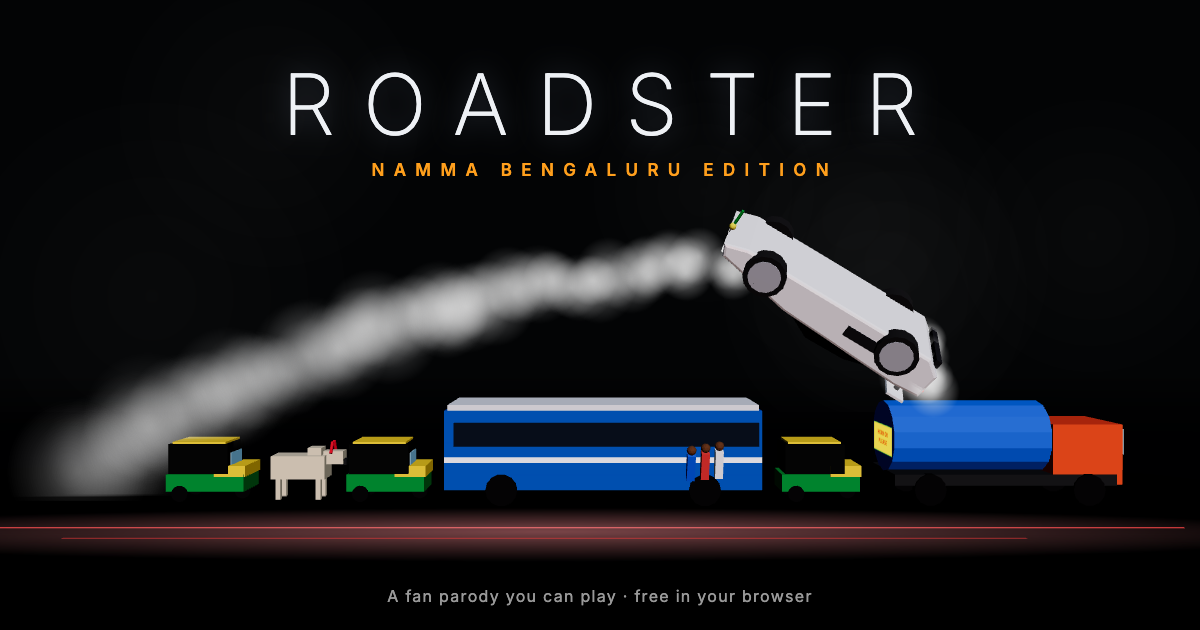
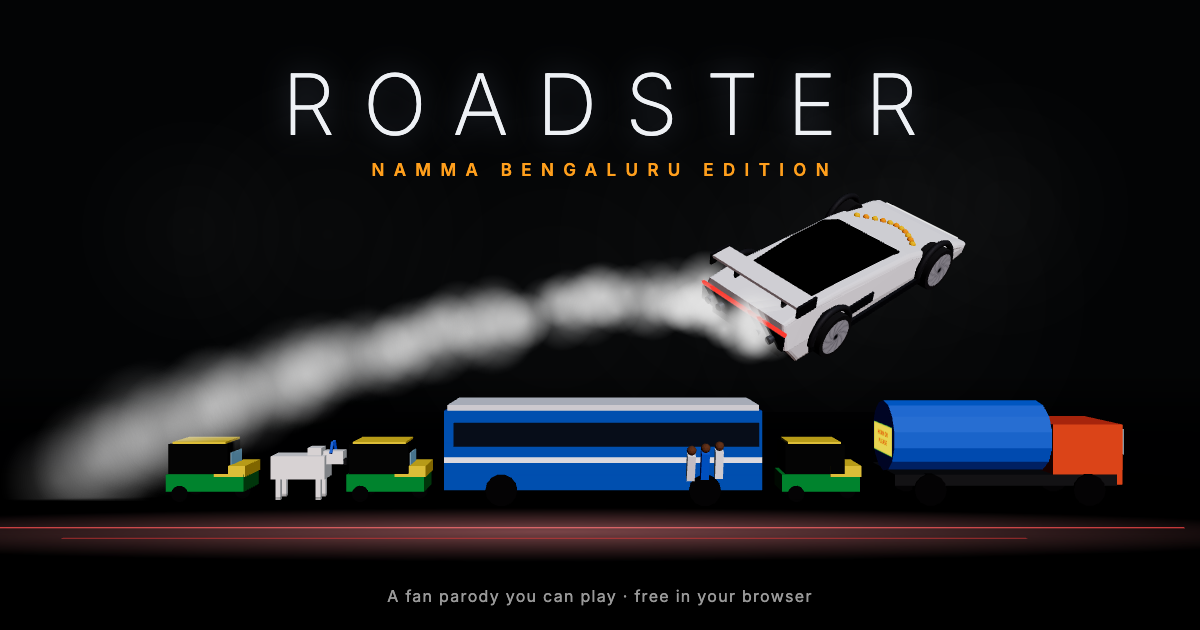
fix: roof bounce instead of stuck hover, decal flicker, unified shortcut grid; detailed Roadster model and OG pose

diff --git a/game.js b/game.js
@@ -259,62 +259,83 @@ function updateSky(dt) {
 // ---------------------------------------------------------------------
 //  The Roadster
 // ---------------------------------------------------------------------
+// extrude a side profile across the car's width, tapering the upper part inward (tumblehome)
+function wedge(shape, width, taperFrom, taperSpan, taper, bevel) {
+  const geo = new THREE.ExtrudeGeometry(shape, { depth: width, bevelEnabled: true, bevelThickness: bevel, bevelSize: bevel, bevelSegments: 3 });
+  geo.translate(0, 0, -width / 2);
+  const p = geo.attributes.position;
+  for (let i = 0; i < p.count; i++) { const k = 1 - taper * clamp((p.getY(i) - taperFrom) / taperSpan, 0, 1); p.setZ(i, p.getZ(i) * k); }
+  geo.computeVertexNormals();
+  return geo;
+}
+function aeroCapTex() { // Cybercab-style flat aero wheel cover
+  const c = document.createElement('canvas'); c.width = c.height = 128; const g = c.getContext('2d');
+  g.fillStyle = '#d9dcdf'; g.beginPath(); g.arc(64, 64, 64, 0, Math.PI * 2); g.fill();
+  g.strokeStyle = 'rgba(40,44,50,0.55)'; g.lineWidth = 3;
+  for (let i = 0; i < 10; i++) { const a = i / 10 * Math.PI * 2; g.beginPath(); g.moveTo(64 + Math.cos(a) * 18, 64 + Math.sin(a) * 18); g.quadraticCurveTo(64 + Math.cos(a + 0.5) * 44, 64 + Math.sin(a + 0.5) * 44, 64 + Math.cos(a + 0.9) * 60, 64 + Math.sin(a + 0.9) * 60); g.stroke(); }
+  g.fillStyle = '#2a2d33'; g.beginPath(); g.arc(64, 64, 12, 0, Math.PI * 2); g.fill();
+  const t = new THREE.CanvasTexture(c); t.colorSpace = THREE.SRGBColorSpace; return t;
+}
 function buildRoadster() {
   const g = new THREE.Group();
-  const white = new THREE.MeshStandardMaterial({ color: 0xf3f3f0, roughness: 0.32, metalness: 0.15 });
-  const glass = new THREE.MeshStandardMaterial({ color: 0x0b0d12, roughness: 0.1, metalness: 0.6 });
-  const dark = new THREE.MeshStandardMaterial({ color: 0x1a1b1e, roughness: 0.6 });
-  const W = 1.95;
-  // body: SR-71 / Esprit wedge side profile (u: front -> back along length)
+  const white = new THREE.MeshStandardMaterial({ color: 0xf4f4f1, roughness: 0.28, metalness: 0.2 });
+  const glass = new THREE.MeshStandardMaterial({ color: 0x0a0c11, roughness: 0.08, metalness: 0.7 });
+  const black = new THREE.MeshStandardMaterial({ color: 0x15161a, roughness: 0.55 });
+  const W = 1.98;
+  // body: SR-71 / Esprit wedge — knife nose, hood rising in one line, long flat deck, cut-off tail
   const s = new THREE.Shape();
-  s.moveTo(-2.35, 0.36); s.lineTo(-2.28, 0.52); s.lineTo(-0.75, 0.84); s.lineTo(1.85, 0.98);
-  s.lineTo(2.35, 0.94); s.lineTo(2.38, 0.46); s.lineTo(2.1, 0.24); s.lineTo(-1.95, 0.24); s.closePath();
-  const bg = new THREE.ExtrudeGeometry(s, { depth: W, bevelEnabled: true, bevelThickness: 0.06, bevelSize: 0.06, bevelSegments: 2 });
-  bg.translate(0, 0, -W / 2);
-  const body = new THREE.Mesh(bg, white); body.rotation.y = -Math.PI / 2; g.add(body);
-  // canopy
+  s.moveTo(-2.42, 0.3); s.lineTo(-2.46, 0.4); s.lineTo(-2.25, 0.48); s.lineTo(-0.85, 0.79); s.lineTo(1.0, 0.92);
+  s.lineTo(2.0, 0.97); s.lineTo(2.44, 0.93); s.lineTo(2.47, 0.56); s.lineTo(2.25, 0.26); s.lineTo(-2.1, 0.24); s.closePath();
+  const body = new THREE.Mesh(wedge(s, W, 0.45, 0.5, 0.16, 0.08), white); body.rotation.y = -Math.PI / 2; g.add(body);
+  // wrap-around canopy
   const c = new THREE.Shape();
-  c.moveTo(-0.85, 0.82); c.lineTo(0.0, 1.24); c.lineTo(0.85, 1.22); c.lineTo(1.75, 0.98); c.closePath();
-  const cg = new THREE.ExtrudeGeometry(c, { depth: 1.36, bevelEnabled: true, bevelThickness: 0.04, bevelSize: 0.04, bevelSegments: 2 });
-  cg.translate(0, 0, -0.68);
-  const canopy = new THREE.Mesh(cg, glass); canopy.rotation.y = -Math.PI / 2; g.add(canopy);
-  // side intakes
-  for (const sx of [-1, 1]) box(g, 0.04, 0.22, 0.9, 0, sx * (W / 2 + 0.07), 0.55, 0.9, dark);
+  c.moveTo(-0.95, 0.74); c.lineTo(-0.1, 1.2); c.lineTo(0.75, 1.24); c.lineTo(1.6, 1.07); c.lineTo(2.05, 0.95); c.lineTo(2.0, 0.86); c.lineTo(-0.95, 0.68); c.closePath();
+  const canopy = new THREE.Mesh(wedge(c, 1.5, 0.8, 0.45, 0.3, 0.05), glass); canopy.rotation.y = -Math.PI / 2; g.add(canopy);
+  // black lower chines, wheel arches, side intakes
+  for (const sx of [-1, 1]) {
+    box(g, 0.06, 0.13, 3.9, 0, sx * 1.08, 0.33, 0.05, black);
+    box(g, 0.03, 0.2, 0.75, 0, sx * 1.06, 0.62, 0.72, black);
+    for (const wz of [-1.45, 1.5]) {
+      const arch = new THREE.Mesh(new THREE.TorusGeometry(0.5, 0.06, 6, 18, Math.PI), black);
+      arch.rotation.y = Math.PI / 2; arch.position.set(sx * 1.09, 0.42, wz); g.add(arch);
+    }
+  }
   // wheels with Cybercab-style aero covers
   const tire = new THREE.MeshStandardMaterial({ color: 0x111111, roughness: 0.9 });
-  const cap = new THREE.MeshStandardMaterial({ color: 0xd6d9dd, roughness: 0.4, metalness: 0.5 });
+  const cap = new THREE.MeshStandardMaterial({ map: aeroCapTex(), roughness: 0.35, metalness: 0.4 });
   g.wheels = [];
   for (const [x, z] of [[-1, -1.45], [1, -1.45], [-1, 1.5], [1, 1.5]]) {
-    const wg = new THREE.Group(); wg.position.set(x * 1.02, 0.42, z); g.add(wg);
+    const wg = new THREE.Group(); wg.position.set(x * 1.04, 0.42, z); g.add(wg);
     cyl(wg, 0.42, 0.36, 0, 0, 0, 0, 'x', tire);
-    cyl(wg, 0.32, 0.02, 0, x * 0.19, 0, 0, 'x', cap);
+    const disc = new THREE.Mesh(new THREE.CircleGeometry(0.34, 20), cap); disc.position.x = x * 0.185; disc.rotation.y = x * Math.PI / 2; wg.add(disc);
     g.wheels.push(wg);
   }
-  // active rear wing
-  box(g, 1.9, 0.05, 0.38, 0, 0, 1.28, 2.08, white);
-  for (const sx of [-0.6, 0.6]) box(g, 0.06, 0.32, 0.1, 0, sx, 1.1, 2.1, dark);
-  // light bars
-  box(g, 1.75, 0.04, 0.05, 0, 0, 0.53, -2.36, new THREE.MeshBasicMaterial({ color: 0xffffff }));
-  box(g, 1.95, 0.05, 0.05, 0, 0, 0.84, 2.4, new THREE.MeshBasicMaterial({ color: 0xff2a2a }));
-  // rear diffuser
-  box(g, 1.5, 0.16, 0.12, 0, 0, 0.3, 2.36, dark);
-  // 4 SpaceX cold-gas thrusters (small, high on the tail so they don't read as wheels)
+  // nose: splitter + light bar
+  box(g, 1.9, 0.05, 0.4, 0, 0, 0.22, -2.3, black);
+  box(g, 1.7, 0.04, 0.04, 0, 0, 0.44, -2.56, new THREE.MeshBasicMaterial({ color: 0xffffff }));
+  // tail: black fascia, full-width light bar, diffuser
+  box(g, 1.92, 0.3, 0.04, 0, 0, 0.67, 2.56, black);
+  box(g, 1.96, 0.06, 0.05, 0, 0, 0.87, 2.56, new THREE.MeshBasicMaterial({ color: 0xff2a2a }));
+  box(g, 1.6, 0.14, 0.18, 0, 0, 0.3, 2.36, black);
+  // active rear wing with endplates
+  box(g, 2.0, 0.05, 0.42, 0, 0, 1.32, 2.14, white);
+  for (const sx of [-1, 1]) { box(g, 0.04, 0.22, 0.46, 0, sx * 1.0, 1.26, 2.14, black); box(g, 0.05, 0.32, 0.1, 0, sx * 0.55, 1.12, 2.16, black); }
+  // 4 SpaceX cold-gas thrusters in the tail fascia
   g.nozzles = [];
-  for (const [x, y] of [[-0.7, 0.66], [-0.45, 0.66], [0.45, 0.66], [0.7, 0.66]]) {
-    cyl(g, 0.07, 0.18, 0, x, y, 2.42, 'z', new THREE.MeshStandardMaterial({ color: 0x55585e, metalness: 0.8, roughness: 0.3 }));
-    g.nozzles.push(new THREE.Vector3(x, y, 2.6));
+  for (const x of [-0.72, -0.45, 0.45, 0.72]) {
+    cyl(g, 0.07, 0.16, 0, x, 0.66, 2.6, 'z', new THREE.MeshStandardMaterial({ color: 0x55585e, metalness: 0.8, roughness: 0.3 }));
+    g.nozzles.push(new THREE.Vector3(x, 0.66, 2.72));
   }
   // underglow (suction fan) visible when hovering
   const glow = new THREE.Mesh(new THREE.PlaneGeometry(2.6, 5), new THREE.MeshBasicMaterial({ map: radialTex('rgba(150,220,255,1)', 'rgba(150,220,255,0)'), transparent: true, blending: THREE.AdditiveBlending, depthWrite: false, opacity: 0 }));
   glow.rotation.x = -Math.PI / 2; glow.position.y = 0.05; g.add(glow); g.glow = glow;
-  // marigold garland on the hood, obviously (it was just blessed at the temple)
+  // marigold garland on the hood (it was just blessed at the temple)
   for (let i = 0; i <= 10; i++) {
-    const t = i / 10; const x = (t - 0.5) * 1.6; const z = -1.2 - Math.cos((t - 0.5) * Math.PI) * 0.55;
-    const y = 0.62 + (z + 2.3) * 0.17;
-    sph(g, 0.085, i % 2 ? 0xff8c00 : 0xffb300, x, y + 0.04, z);
+    const t = i / 10, x = (t - 0.5) * 1.3, z = -1.3 - Math.cos((t - 0.5) * Math.PI) * 0.4;
+    sph(g, 0.065, i % 2 ? 0xff8c00 : 0xffb300, x, 0.5 + (z + 2.25) / 1.4 * 0.31 + 0.06, z);
   }
-  // nimbu-mirchi hanging from the front bumper
-  const nm = new THREE.Group(); nm.position.set(0.35, 0.42, -2.42); g.add(nm); g.nimbu = nm;
+  // nimbu-mirchi hanging from the nose
+  const nm = new THREE.Group(); nm.position.set(0.35, 0.36, -2.56); g.add(nm); g.nimbu = nm;
   box(nm, 0.012, 0.22, 0.012, 0x111111, 0, -0.11, 0);
   sph(nm, 0.07, 0xf6e13a, 0, -0.26, 0, 1, 1.15, 1);
   for (let i = 0; i < 4; i++) { const ch = cyl(nm, 0.025, 0.2, 0x1f9d3a, 0, -0.43 - i * 0.12, 0); ch.scale.set(0.03, 0.12, 0.03); ch.position.y = -0.4 - i * 0.07; }
@@ -322,10 +343,12 @@ function buildRoadster() {
 }
 const carMesh = buildRoadster();
 scene.add(carMesh);
-const carShadow = new THREE.Mesh(new THREE.PlaneGeometry(3.2, 6), new THREE.MeshBasicMaterial({ map: SHADOW_TEX, transparent: true, depthWrite: false }));
+// flat decals get a depth offset so they never z-fight with the road (that was the flicker)
+const DECAL = { polygonOffset: true, polygonOffsetFactor: -2, polygonOffsetUnits: -2 };
+const carShadow = new THREE.Mesh(new THREE.PlaneGeometry(3.2, 6), new THREE.MeshBasicMaterial({ map: SHADOW_TEX, transparent: true, depthWrite: false, ...DECAL }));
 carShadow.rotation.x = -Math.PI / 2; scene.add(carShadow);
 // tight dark contact shadow that only shows when the wheels are on the ground
-const carContact = new THREE.Mesh(new THREE.PlaneGeometry(2.5, 5), new THREE.MeshBasicMaterial({ map: radialTex('rgba(0,0,0,0.9)', 'rgba(0,0,0,0)'), transparent: true, depthWrite: false }));
+const carContact = new THREE.Mesh(new THREE.PlaneGeometry(2.5, 5), new THREE.MeshBasicMaterial({ map: radialTex('rgba(0,0,0,0.9)', 'rgba(0,0,0,0)'), transparent: true, depthWrite: false, ...DECAL }));
 carContact.rotation.x = -Math.PI / 2; scene.add(carContact);
 
 // ---------------------------------------------------------------------
@@ -335,7 +358,7 @@ const AUTO_SLOGANS = ['Appa Amma\nBlessings', 'Sound Horn', 'Don\'t Kiss Me', 'M
 const CAR_COLORS = [0xffffff, 0xc0c4c8, 0x9e1b1b, 0x274b8a, 0x2e2e2e, 0xd9d2c0, 0x6b2f86];
 
 function shadowUnder(g, w, d) {
-  const sh = new THREE.Mesh(new THREE.PlaneGeometry(w * 1.4, d * 1.25), new THREE.MeshBasicMaterial({ map: SHADOW_TEX, transparent: true, depthWrite: false }));
+  const sh = new THREE.Mesh(new THREE.PlaneGeometry(w * 1.4, d * 1.25), new THREE.MeshBasicMaterial({ map: SHADOW_TEX, transparent: true, depthWrite: false, ...DECAL }));
   sh.rotation.x = -Math.PI / 2; sh.position.y = 0.03; g.add(sh);
 }
 function wheels(g, w, z1, z2, r = 0.32) {
@@ -431,9 +454,9 @@ const BUILDERS = {
   pothole() {
     const g = new THREE.Group();
     const r = rand(0.8, 1.6);
-    const m = new THREE.Mesh(new THREE.CircleGeometry(r, 9), new THREE.MeshLambertMaterial({ color: 0x232325 }));
+    const m = new THREE.Mesh(new THREE.CircleGeometry(r, 9), new THREE.MeshLambertMaterial({ color: 0x232325, ...DECAL }));
     m.rotation.x = -Math.PI / 2; m.position.y = 0.02; m.scale.set(1, rand(0.6, 1), 1); g.add(m);
-    const w = new THREE.Mesh(new THREE.CircleGeometry(r * 0.7, 7), new THREE.MeshLambertMaterial({ color: 0x6a5a3a, transparent: true, opacity: 0.6 }));
+    const w = new THREE.Mesh(new THREE.CircleGeometry(r * 0.7, 7), new THREE.MeshLambertMaterial({ color: 0x6a5a3a, transparent: true, opacity: 0.6, polygonOffset: true, polygonOffsetFactor: -4, polygonOffsetUnits: -4 }));
     w.rotation.x = -Math.PI / 2; w.position.y = 0.03; g.add(w);
     return { mesh: g, w: r * 1.6, d: r * 1.6, h: 0, vz: 0, kind: 'pothole', flat: true };
   },
@@ -1059,7 +1082,7 @@ const game = {};
 function resetGame() {
   Object.assign(car, { x: -3, y: 0, s: 0, vy: 0, vx: 0, speed: 0, air: 100, onGround: true, roll: 0, rolling: false, hopHeld: 0, hoverArmed: false, thrust: 0, support: null, shake: 0, crashCd: 0, tilt: 0, pitch: 0 });
   Object.assign(game, {
-    clock: START_MIN, t: 0, swag: 0, challans: [], cowsRespected: 0, cowsHit: 0, potholes: 0, crashes: 0, honks: 0, rolls: 0, surf: 0, hops: 0,
+    clock: START_MIN, t: 0, swag: 0, challans: [], cowsRespected: 0, cowsHit: 0, potholes: 0, crashes: 0, honks: 0, rolls: 0, roofHops: 0, hops: 0,
     stage: -1, nextSpawn: 135, events: buildEvents(), lateMsgs: [9 * 60 + 31, 9 * 60 + 40, 9 * 60 + 52, 10 * 60 + 5], foamT: 0, ambT: 1, pausedT: 0, fsdCd: 0, fsd: null,
   });
   clearObstacles();
@@ -1259,18 +1282,22 @@ function update(dt) {
       if (prevY >= o.h - 0.15 && o.h > support) { support = o.h; supportObj = o; }
     }
   }
-  if (car.y <= support) {
+  if (supportObj && car.y <= support) {
+    // never park on vehicles (it reads as a stuck hover): bounce off the roof instead
+    car.y = support; car.vy = Math.max(7.5, Math.sqrt(2 * GRAV * (3.8 - support))); car.onGround = false; car.support = null; // clears a bus
+    car.speed = Math.max(car.speed, cruise() * 0.6); // and always moves you forward
+    game.roofHops++; addSwag(30); AU.thud(); car.shake = Math.max(car.shake, 0.1);
+    if (game.roofHops === 1 || Math.random() < 0.2) flash('ROOF HOP!', pick(['Namma style', 'Sorry uncle!', 'Using the BMTC as a trampoline']));
+  } else if (car.y <= support) {
     if (!car.onGround) {
       // landing
       if (car.rolling) { car.rolling = false; car.roll = 0; car.speed *= 0.45; car.shake = 0.4; AU.crash(); flash('SKETCHY LANDING', pick(['Bhai ye kya tha?', 'Chassis says ouch', 'Saar, insurance claim?'])); }
       else if (car.vy < -6) { AU.land(); car.shake = Math.max(car.shake, 0.15); for (let i = 0; i < 8; i++) puff(new THREE.Vector3(car.x + rand(-1.5, 1.5), support + 0.2, -car.s + rand(-2, 2)), new THREE.Vector3(rand(-3, 3), rand(0.5, 2), rand(-1, 3)), 0.8, 0.8, 2.5, 0xc9a77c, 0.5); }
-      if (supportObj && !car.support) { flash(supportObj.kind === 'bus' ? 'BUS SURFING!' : 'ROOF PARKING!', 'Namma style'); }
     }
-    car.y = support; car.vy = 0; car.onGround = true; car.support = supportObj;
+    car.y = support; car.vy = 0; car.onGround = true; car.support = null;
   } else if (car.y > support + 0.05) {
     car.onGround = false; car.support = null;
   }
-  if (car.support) { game.surf += dt; addSwag(80 * dt); }
 
   // ---------- air regen
   if (car.onGround && !thrust) car.air = Math.min(100, car.air + AIR_REGEN * dt);
@@ -1575,7 +1602,7 @@ function endGame(arrived) {
     ['Barrel rolls', game.rolls],
     ['Potholes found', game.potholes],
     ['Crashes', game.crashes],
-    ['Bus-surfing time', game.surf.toFixed(1) + 's'],
+    ['Roof hops', game.roofHops],
     ['Honks', game.honks],
     ['Challans', '₹' + tot.toLocaleString('en-IN') + (game.challans.length ? ` (${game.challans.length})` : '')],
   ];
@@ -1613,7 +1640,7 @@ function frame(now) {
       game.t += dt;
       const a = game.t * 0.25;
       carMesh.position.set(car.x, 0, 0); carMesh.rotation.set(0, 0, 0);
-      carShadow.position.set(car.x, 0.02, 0);
+      carShadow.position.set(car.x, 0.02, 0); carContact.position.set(car.x, 0.025, 0); carContact.material.opacity = 1;
       for (const m of [road, ...paths, ...curbs, earth]) m.position.z = -100;
       camera.position.set(car.x + Math.sin(a) * 7.5, 2.4, Math.cos(a) * 7.5);
       camera.lookAt(car.x, 0.6, 0);
@@ -1670,7 +1697,7 @@ function setupOgCard() {
   }
   // the Roadster, mid-flip
   st.add(carMesh); carMesh.rotation.order = 'YXZ';
-  carMesh.position.set(5.8, 7.2, 2.5); carMesh.rotation.set(2.6, -Math.PI / 2, 0.5); carMesh.scale.setScalar(1.5);
+  carMesh.position.set(5.4, 6.8, 3); carMesh.rotation.set(0.42, -Math.PI / 2 + 0.55, -0.55); carMesh.scale.setScalar(1.55); // nose-up, banked toward camera
   const carKey = new THREE.DirectionalLight(0xffffff, 1.2); carKey.position.set(4, 4, 20); st.add(carKey);
   carMesh.glow.material.opacity = 0; carMesh.updateMatrixWorld(true);
   const puffAt = (p, sc, op) => {
@@ -1678,7 +1705,7 @@ function setupOgCard() {
     sp.scale.set(sc, sc, 1); sp.position.copy(p); st.add(sp);
   };
   for (let i = 0; i < 80; i++) { // vapour arc from the launch point up to the car
-    const t = i / 79, px = lerp(-19, 3.4, t), py = 0.6 + 7.0 * (1 - (1 - t) * (1 - t));
+    const t = i / 79, px = lerp(-19, 3.0, t), py = 0.6 + 6.0 * (1 - (1 - t) * (1 - t));
     puffAt(new THREE.Vector3(px + rand(-0.4, 0.4), py + rand(-0.35, 0.35), rand(-0.6, 0.6)), lerp(3.6, 1.5, t) * rand(0.8, 1.3), (0.18 + 0.45 * t) * rand(0.6, 1));
   }
   for (const n of carMesh.nozzles) for (let i = 0; i < 4; i++) { const p = n.clone(); carMesh.localToWorld(p); p.add(new THREE.Vector3(rand(-0.8, 0.2), rand(-0.3, 0.6), rand(-0.4, 0.4))); puffAt(p, rand(0.9, 1.8), 0.7); }

diff --git a/index.html b/index.html
@@ -25,7 +25,7 @@
 <link rel="preconnect" href="https://fonts.googleapis.com">
 <link rel="preconnect" href="https://fonts.gstatic.com" crossorigin>
 <link href="https://fonts.googleapis.com/css2?family=Inter:wght@200;300;400;600;800&family=Baloo+2:wght@600;800&display=swap" rel="stylesheet">
-<link rel="stylesheet" href="style.css?v=17">
+<link rel="stylesheet" href="style.css?v=20">
 </head>
 <body>
 <div id="app"></div>
@@ -109,12 +109,14 @@
       <div><kbd>F</kbd><span>Barrel roll (in the air)</span></div>
       <div><kbd>S</kbd><span>Brake</span></div>
       <div><kbd>H</kbd><span>Horn</span></div>
+      <div><kbd>G</kbd><span>FSD (Supervised)</span></div>
+      <div><kbd>P</kbd><span>Pause</span><kbd>M</kbd><span>Mute</span></div>
     </div>
     <div class="cta">
       <button id="startBtn">START COMMUTE</button>
       <div class="modes"><div class="lbl">DRIVE MODE</div><div class="seg"><button data-mode="chill">Chill</button><button data-mode="sport">Sport</button><button data-mode="plaid">Plaid</button></div></div>
     </div>
-    <div class="fine">G for FSD (Supervised) · P to pause · Fly over cows, never hit one · <button class="linkbtn soundBtn">🔊 Sound: On</button></div>
+    <div class="fine">Fly over cows. Never hit one. · <button class="linkbtn soundBtn">🔊 Sound: On</button></div>
     <div class="fine legal">Fan-made parody. Not affiliated with Tesla.</div>
   </div>
 </div>
@@ -145,6 +147,6 @@
 <script type="importmap">
 { "imports": { "three": "https://cdn.jsdelivr.net/npm/three@0.160.0/build/three.module.js" } }
 </script>
-<script type="module" src="game.js?v=17"></script>
+<script type="module" src="game.js?v=20"></script>
 </body>
 </html>

diff --git a/CLAUDE.md b/CLAUDE.md
@@ -15,6 +15,8 @@ A comedy browser game: fly a Tesla Roadster through Bengaluru traffic (HSR Layou
 ## Conventions
 - World: forward is **-Z**. `car.s` is distance travelled; the car's world z is `-car.s`. Obstacles store `x`, `z`, `w`, `d`, `h`, `vz` (forward speed). Collision is an AABB in x/z plus a height check (`car.y >= o.h` means you're above it).
 - Tuning knobs at the top of `game.js`: `MODES` (Chill/Sport/Plaid cruise speeds), `SEC_PER_MIN` (clock difficulty; the clock scales with mode), `STAGES` / `STAGE_CFG` (route and traffic mix), plus hop, hover and gas constants.
+- The car must never rest on a vehicle roof: from the chase cam it looks like a stuck hover. Landing on a roof triggers a bounce (`ROOF HOP`) that clears a bus and pushes the car forward.
+- Flat decals (shadows, potholes) use the `DECAL` polygon-offset material options. Without them they z-fight with the road and flicker.
 - Messaging channels, one per event, never both:
   - `flash()`: centre text for on-road events (crashes, stunts).
   - `toast()`: phone notifications (WhatsApp, e-challan SMS).
